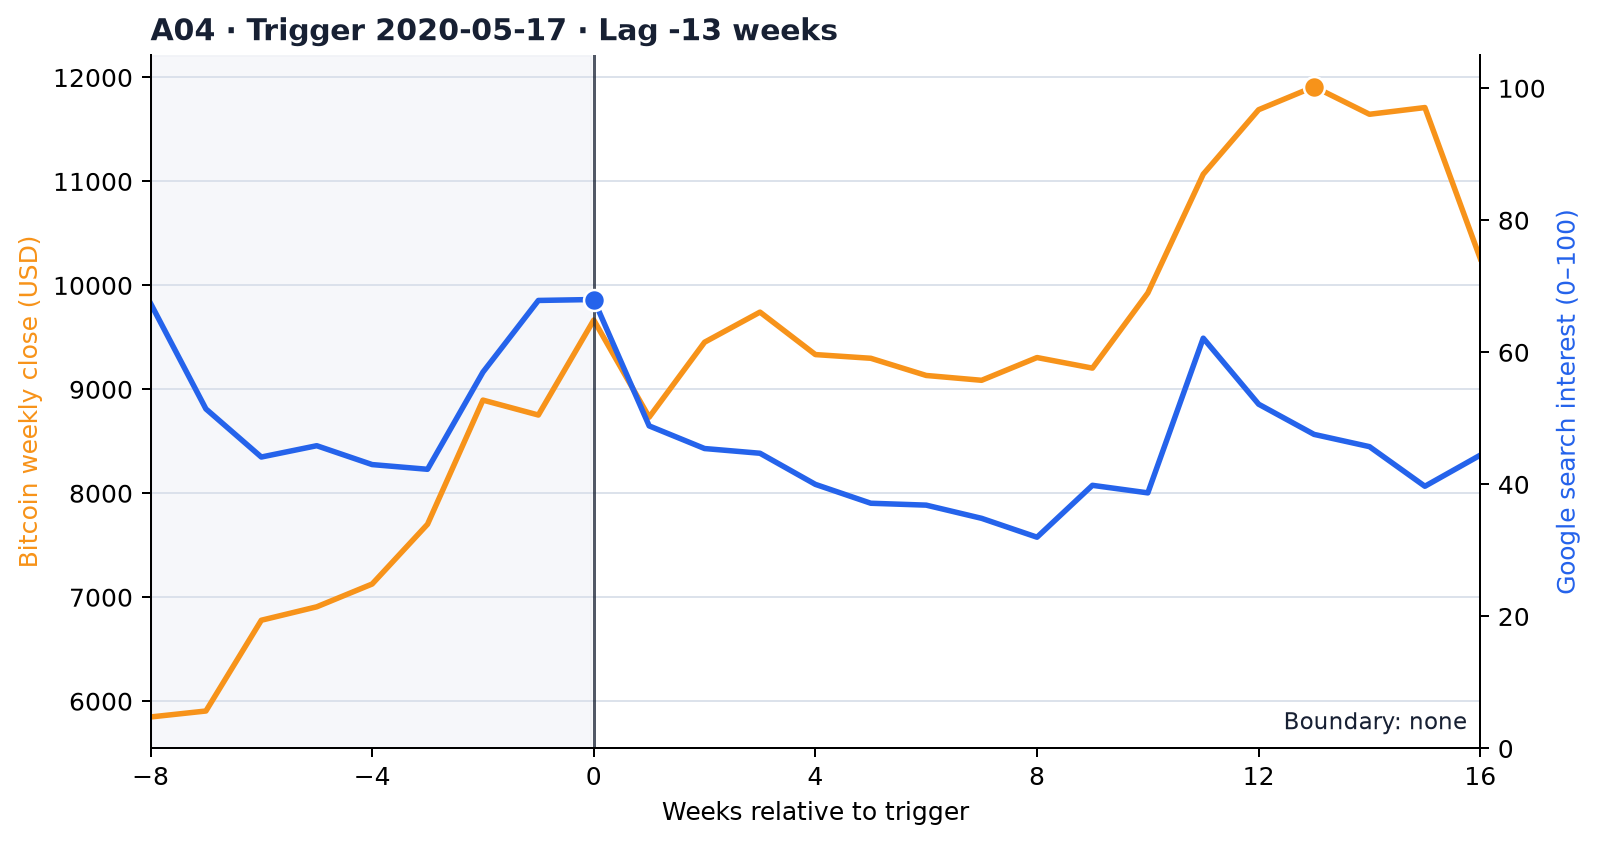
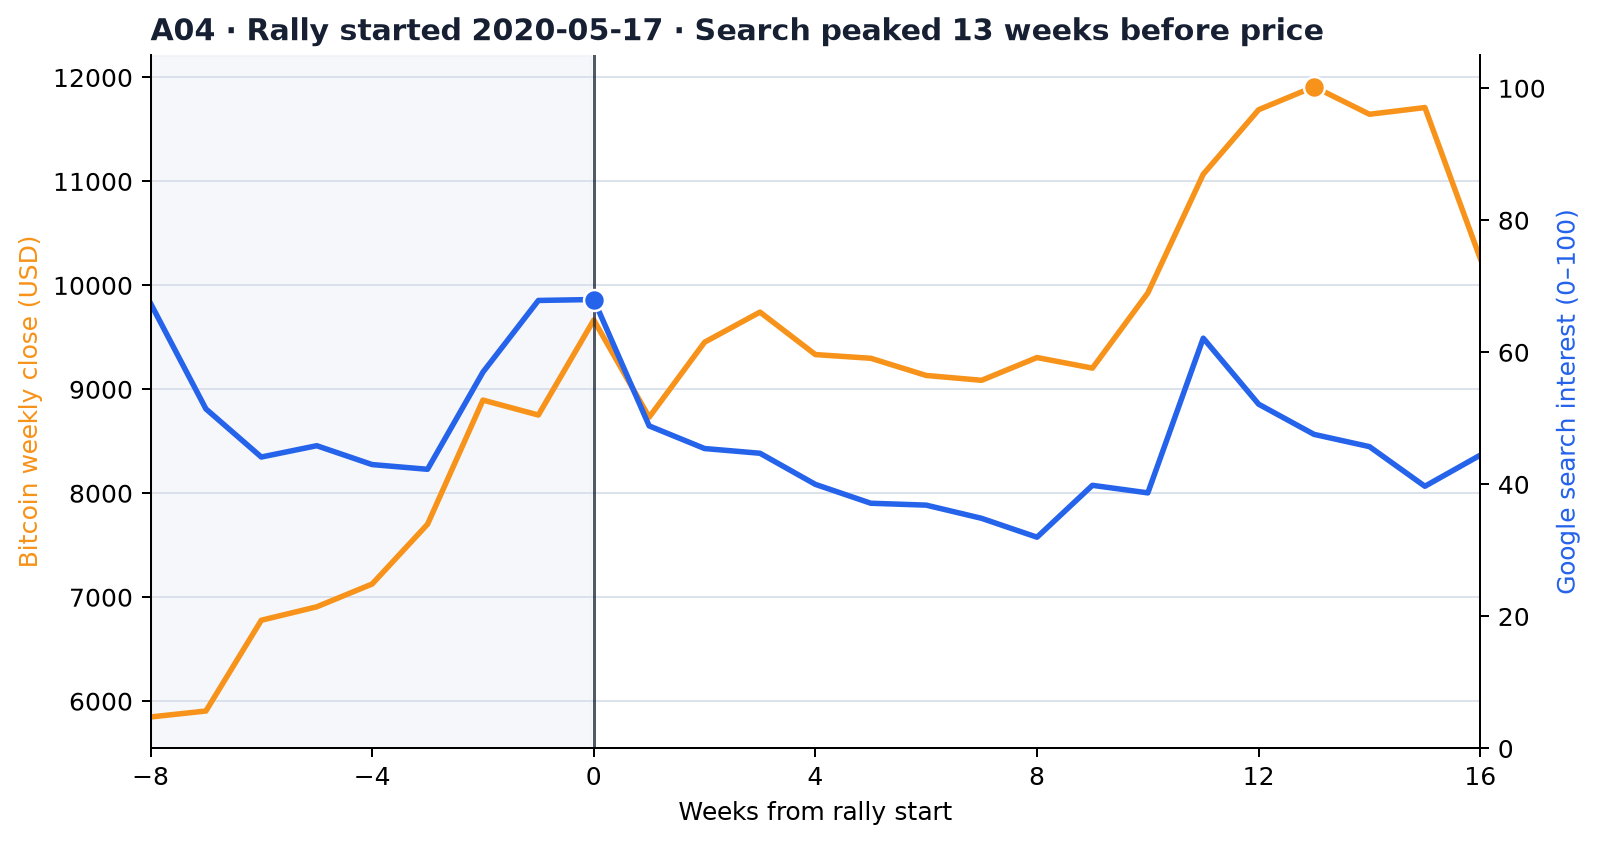
Use plain-language labels in figures
Replace trigger/lag/boundary jargon with wording that matches the
portfolio case study, and regenerate all figures.

Changed region(s): [[0.1533, 0.0, 0.8279, 0.0616], [0.3986, 0.955, 0.6133, 0.9858], [0.7972, 0.8318, 0.9199, 0.8626]]

diff --git a/scripts/create_figures.py b/scripts/create_figures.py
@@ -16,6 +16,24 @@ TEXT_COLOR = "#172033"
 GRID_COLOR = "#D8DEE9"
 
 
+def describe_lag(lag: int) -> str:
+    if lag == 0:
+        return "Search and price peaked the same week"
+    direction = "before" if lag < 0 else "after"
+    weeks = "week" if abs(lag) == 1 else "weeks"
+    return f"Search peaked {abs(lag)} {weeks} {direction} price"
+
+
+def describe_boundary(flag: str) -> str:
+    if flag == "none":
+        return ""
+    if "price" in flag and "search" in flag:
+        return "Both peaks on window edge"
+    if "price" in flag:
+        return "Price peak on window edge"
+    return "Search peak on window edge"
+
+
 def relative_week(weeks: pd.Series, trigger: pd.Timestamp) -> pd.Series:
     return (weeks - trigger).dt.days // 7
 
@@ -89,14 +107,14 @@ def plot_event_chart(
     price_axis.axvspan(-8, -0.05, color=GRID_COLOR, alpha=0.22)
     price_axis.set_xlim(-8, 16)
     price_axis.set_xticks(np.arange(-8, 17, 4))
-    price_axis.set_xlabel("Weeks relative to trigger")
+    price_axis.set_xlabel("Weeks from rally start")
     price_axis.set_ylabel("Bitcoin weekly close (USD)", color=PRICE_COLOR)
     search_axis.set_ylabel("Google search interest (0–100)", color=SEARCH_COLOR)
     search_axis.set_ylim(0, 105)
     price_axis.grid(axis="y", color=GRID_COLOR, linewidth=0.7)
     price_axis.set_title(
-        f"{result['event_id']} · Trigger {result['trigger_week'].date()} · "
-        f"Lag {result['peak_lag_weeks']:+d} weeks",
+        f"{result['event_id']} · Rally started {result['trigger_week'].date()} · "
+        f"{describe_lag(int(result['peak_lag_weeks']))}",
         loc="left",
         color=TEXT_COLOR,
         fontweight="bold",
@@ -104,11 +122,11 @@ def plot_event_chart(
     price_axis.text(
         0.99,
         0.02,
-        f"Boundary: {result['boundary_flag']}",
+        describe_boundary(result["boundary_flag"]),
         transform=price_axis.transAxes,
         ha="right",
         va="bottom",
-        color=BOUNDARY_COLOR if result["boundary_flag"] != "none" else TEXT_COLOR,
+        color=BOUNDARY_COLOR,
         fontsize=9,
     )
     for axis in (price_axis, search_axis):
@@ -133,7 +151,7 @@ def plot_lag_dotplot(results: pd.DataFrame, destination: Path) -> None:
         y_positions[~boundary],
         s=70,
         color=SEARCH_COLOR,
-        label="Complete interior peak",
+        label="Both peaks inside window",
         zorder=3,
     )
     axis.scatter(
@@ -144,7 +162,7 @@ def plot_lag_dotplot(results: pd.DataFrame, destination: Path) -> None:
         facecolor="white",
         edgecolor=BOUNDARY_COLOR,
         linewidth=1.8,
-        label="Boundary flagged",
+        label="Peak on window edge",
         zorder=3,
     )
     for index, lag in enumerate(ordered["peak_lag_weeks"]):
@@ -164,9 +182,9 @@ def plot_lag_dotplot(results: pd.DataFrame, destination: Path) -> None:
             for event_id, date in zip(ordered["event_id"], ordered["trigger_week"])
         ]
     )
-    axis.set_xlabel("Search peak minus price peak (weeks)")
+    axis.set_xlabel("Weeks search peaked before (−) or after (+) price")
     axis.set_title(
-        "Peak-attention lag across primary Bitcoin surge events",
+        "Weeks between the search peak and price peak in each rally",
         loc="left",
         color=TEXT_COLOR,
         fontweight="bold",
@@ -174,7 +192,7 @@ def plot_lag_dotplot(results: pd.DataFrame, destination: Path) -> None:
     axis.text(
         median,
         0.35,
-        f" Median = {median:+.0f} weeks",
+        f" Typical gap: {median:+.0f} weeks",
         color=SEARCH_COLOR,
         va="bottom",
         fontsize=9,
